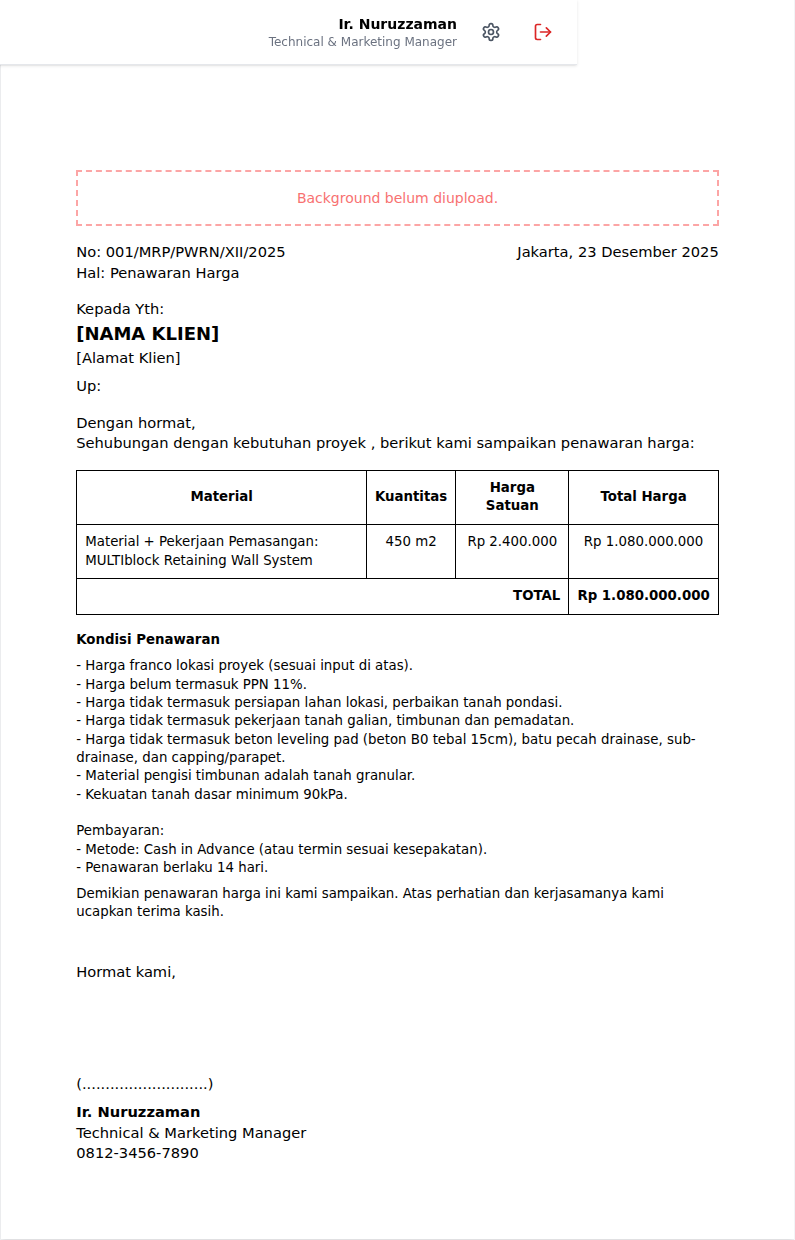
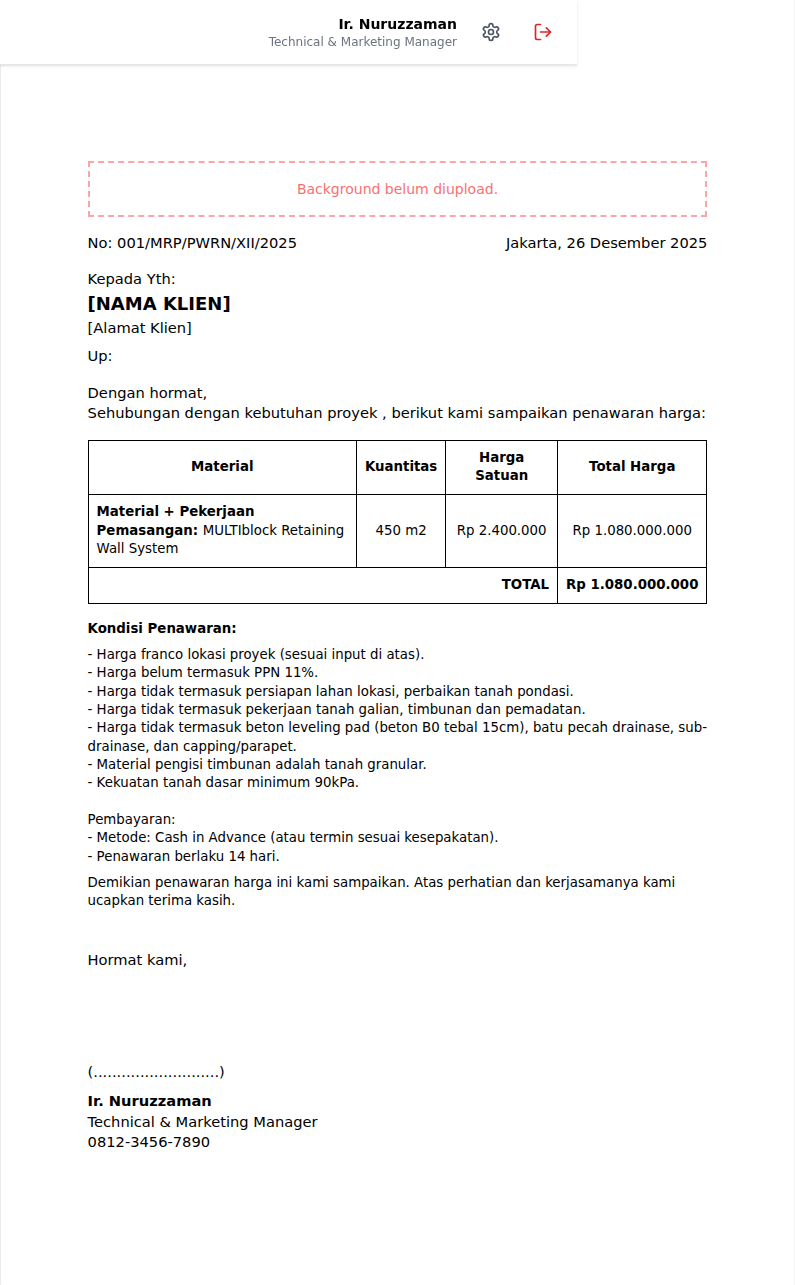
Update layout preview: remove "Hal" and colonize "Kondisi Penawaran"
- Removed "Hal: Penawaran Harga" line from both HTML live preview and generated PDF.
- Updated "Kondisi Penawaran" to "Kondisi Penawaran:" in both HTML live preview and generated PDF.
- Verified changes via automated screenshot verification.

diff --git a/index.html b/index.html
@@ -735,12 +735,8 @@ o Instalasi: DP XX%, sisa pelunasan sesuai dengan prosentase progress pekerjaan 
                 
                 // Kiri: Nomor
                 doc.text(`No: ${formData.noSurat}`, marginLeft, yPos);
-                yPos += 5;
+                yPos += 10;
 
-                // Hal
-                doc.text("Hal: Penawaran Harga", marginLeft, yPos);
-                yPos += 8;
-                
                 doc.text("Kepada Yth:", marginLeft, yPos);
                 yPos += 5;
                 doc.setFont("helvetica", "bold");
@@ -900,7 +896,7 @@ o Instalasi: DP XX%, sisa pelunasan sesuai dengan prosentase progress pekerjaan 
                 // 4. SYARAT & KONDISI
                 doc.setFontSize(10);
                 doc.setFont("helvetica", "bold");
-                doc.text("Kondisi Penawaran", marginLeft, yPos);
+                doc.text("Kondisi Penawaran:", marginLeft, yPos);
                 yPos += 5;
                 doc.setFont("helvetica", "normal");
 
@@ -1232,7 +1228,6 @@ o Instalasi: DP XX%, sisa pelunasan sesuai dengan prosentase progress pekerjaan 
                                                     <div className="flex justify-between mb-4">
                                                         <div>
                                                             <div>No: {formData.noSurat}</div>
-                                                            <div>Hal: Penawaran Harga</div>
                                                             <div className="mt-4">
                                                                 <div>Kepada Yth:</div>
                                                                 <div className="font-bold text-lg uppercase">{formData.clientName || "[Nama Klien]"}</div>
@@ -1300,7 +1295,7 @@ o Instalasi: DP XX%, sisa pelunasan sesuai dengan prosentase progress pekerjaan 
                                             {pageData.isLastPage && (
                                                 <>
                                                     <div className="text-[10pt] whitespace-pre-wrap font-sans mb-4 leading-snug">
-                                                        <strong className="block text-[10pt] font-bold mb-2">Kondisi Penawaran</strong>
+                                                                <strong className="block text-[10pt] font-bold mb-2">Kondisi Penawaran:</strong>
                                                         {(() => {
                                                             let t = formData.terms;
                                                             t = t.replace(/\[NAMA_PROYEK\]/g, formData.projectName || "....................");
